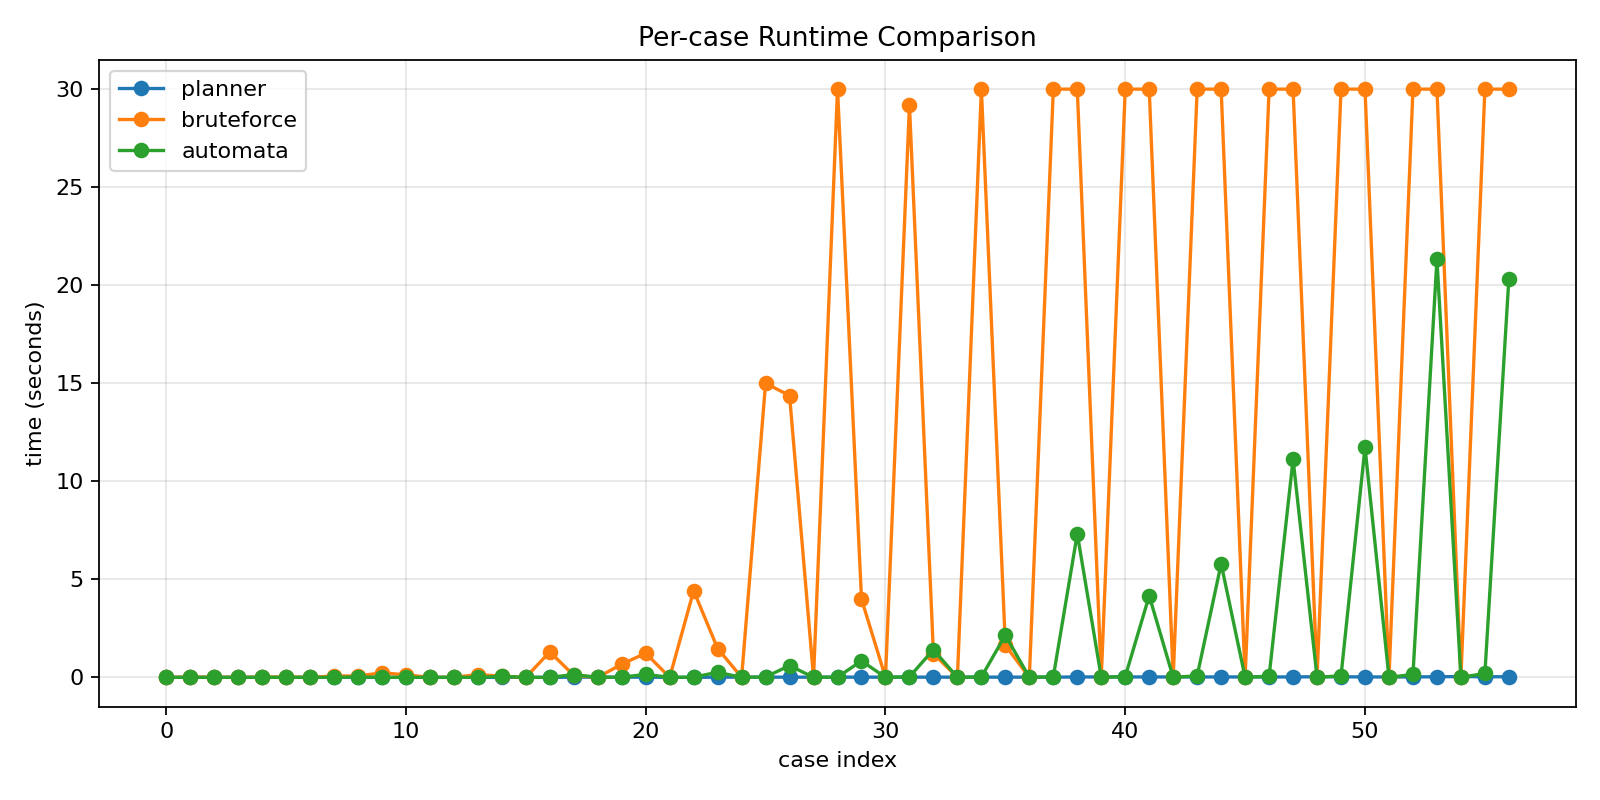
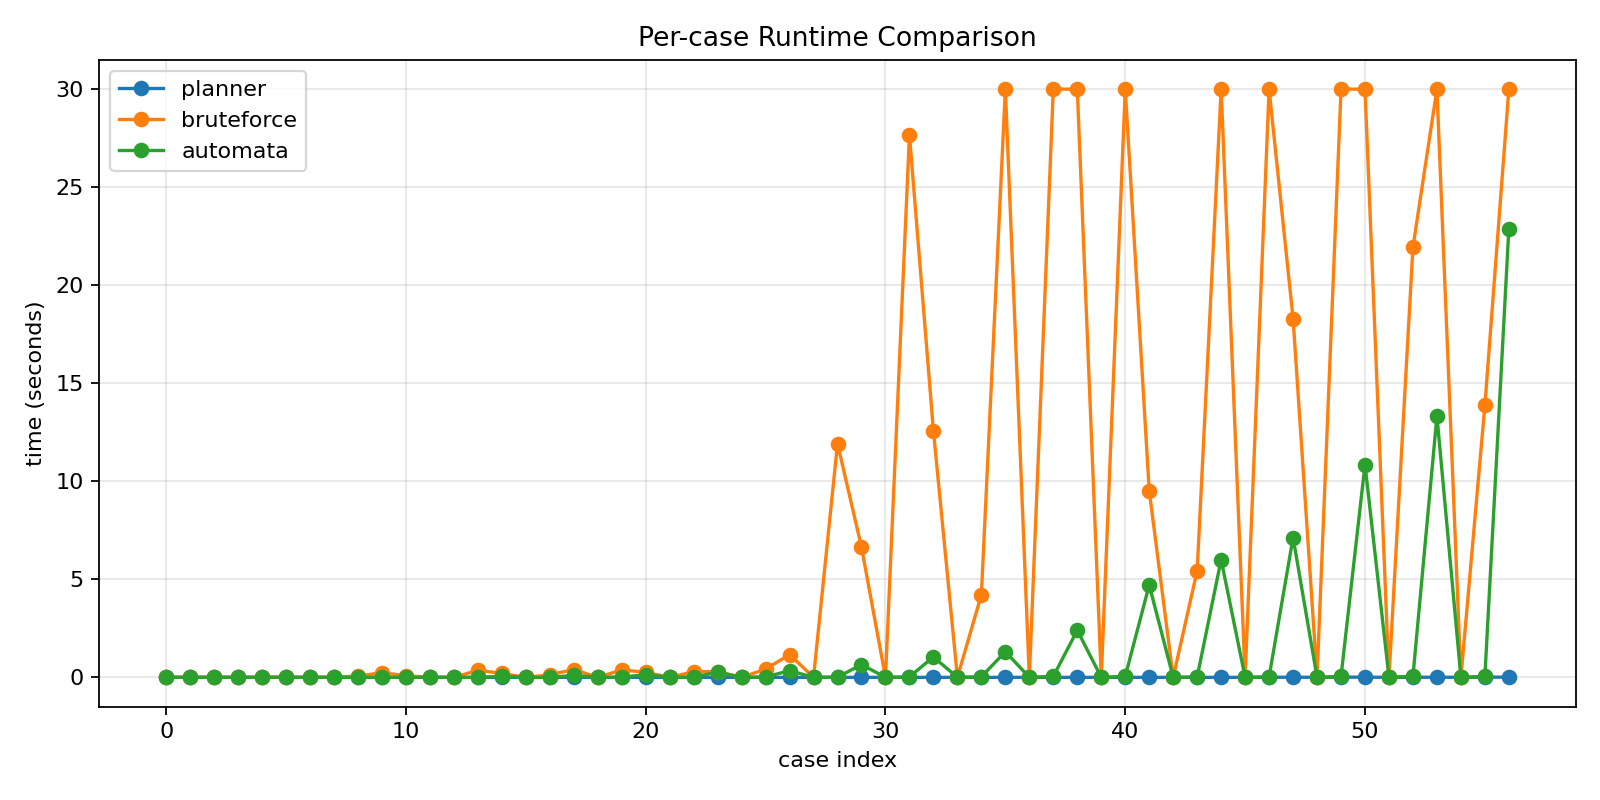
new results

Changed region(s): [[0.2812, 0.0938, 0.9688, 0.8438], [0.5, 0.0938, 0.5312, 0.4688], [0.7812, 0.0938, 0.8125, 0.4062]]

diff --git a/README.md b/README.md
@@ -193,7 +193,7 @@ On these 57 cases (validation enabled):
 
 - Locality planner successes: 57 / 57 (all 57 validated).
 - Automata baseline successes: 57 / 57 (all 57 validated).
-- Brute-force successes: 41 / 57 (41 validated, 16 timeouts).
+- Brute-force successes: 47 / 57 (47 validated, 10 timeouts).
 
 These counts come directly from `tests_systematic/benchmark.csv`.
 Here, “success” means the planner exited with status `0` within the configured
@@ -201,9 +201,9 @@ timeout. With `--validate`, all successful outputs are also checked by
 `./validate`.
 
 Runtime summary (successful runs only):
-- Locality planner: mean 0.011s, median 0.01s, max 0.04s.
-- Automata baseline: mean 1.55s, median 0.01s, max 21.32s.
-- Brute force: mean 1.84s, median 0.01s, max 29.19s.
+- Locality planner: mean 0.001s, median 0.00s, max 0.01s.
+- Automata baseline: mean 1.26s, median 0.01s, max 22.89s.
+- Brute force: mean 2.90s, median 0.02s, max 27.66s.
 
 ![Benchmark Runtime vs n](tests_systematic/benchmark-time-vs-n.png)
 ![Benchmark Runtime per Case](tests_systematic/benchmark-time-vs-case.png)
